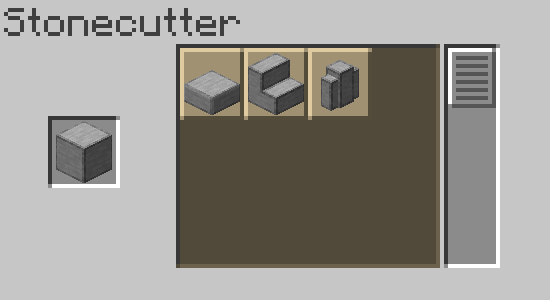
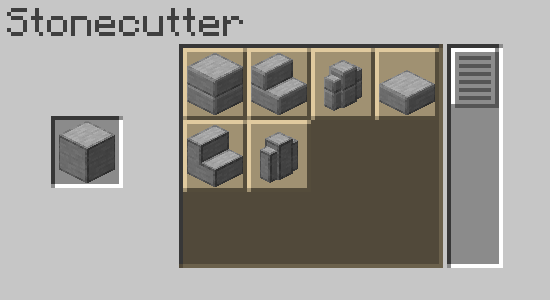
0.0.2

diff --git a/README.md b/README.md
@@ -1,7 +1,9 @@
 # Smooth Stone Extensions
 
-Adds Smooth Stone Stairs and Walls. Craftable from the crafting table and the stonecutter as usual.
+Adds Smooth Stone Stairs and Walls, and polished variants. Craftable from the crafting table and the stonecutter as usual.
 
 Custom Stair and Wall models so that they have the darkened edges of the smooth stone. Works fine with resource packs that follow vanilla's texture proportions. You're free to use these in your own projects!
 
 ![Stonecutter recipe](https://raw.githubusercontent.com/SoundsoftheSun/Smooth-Stone-Extensions/refs/heads/master/img/recipe.png)
+
+![Screenshot](https://raw.githubusercontent.com/SoundsoftheSun/Smooth-Stone-Extensions/refs/heads/master/img/smooth_stone_screenshot.png)
